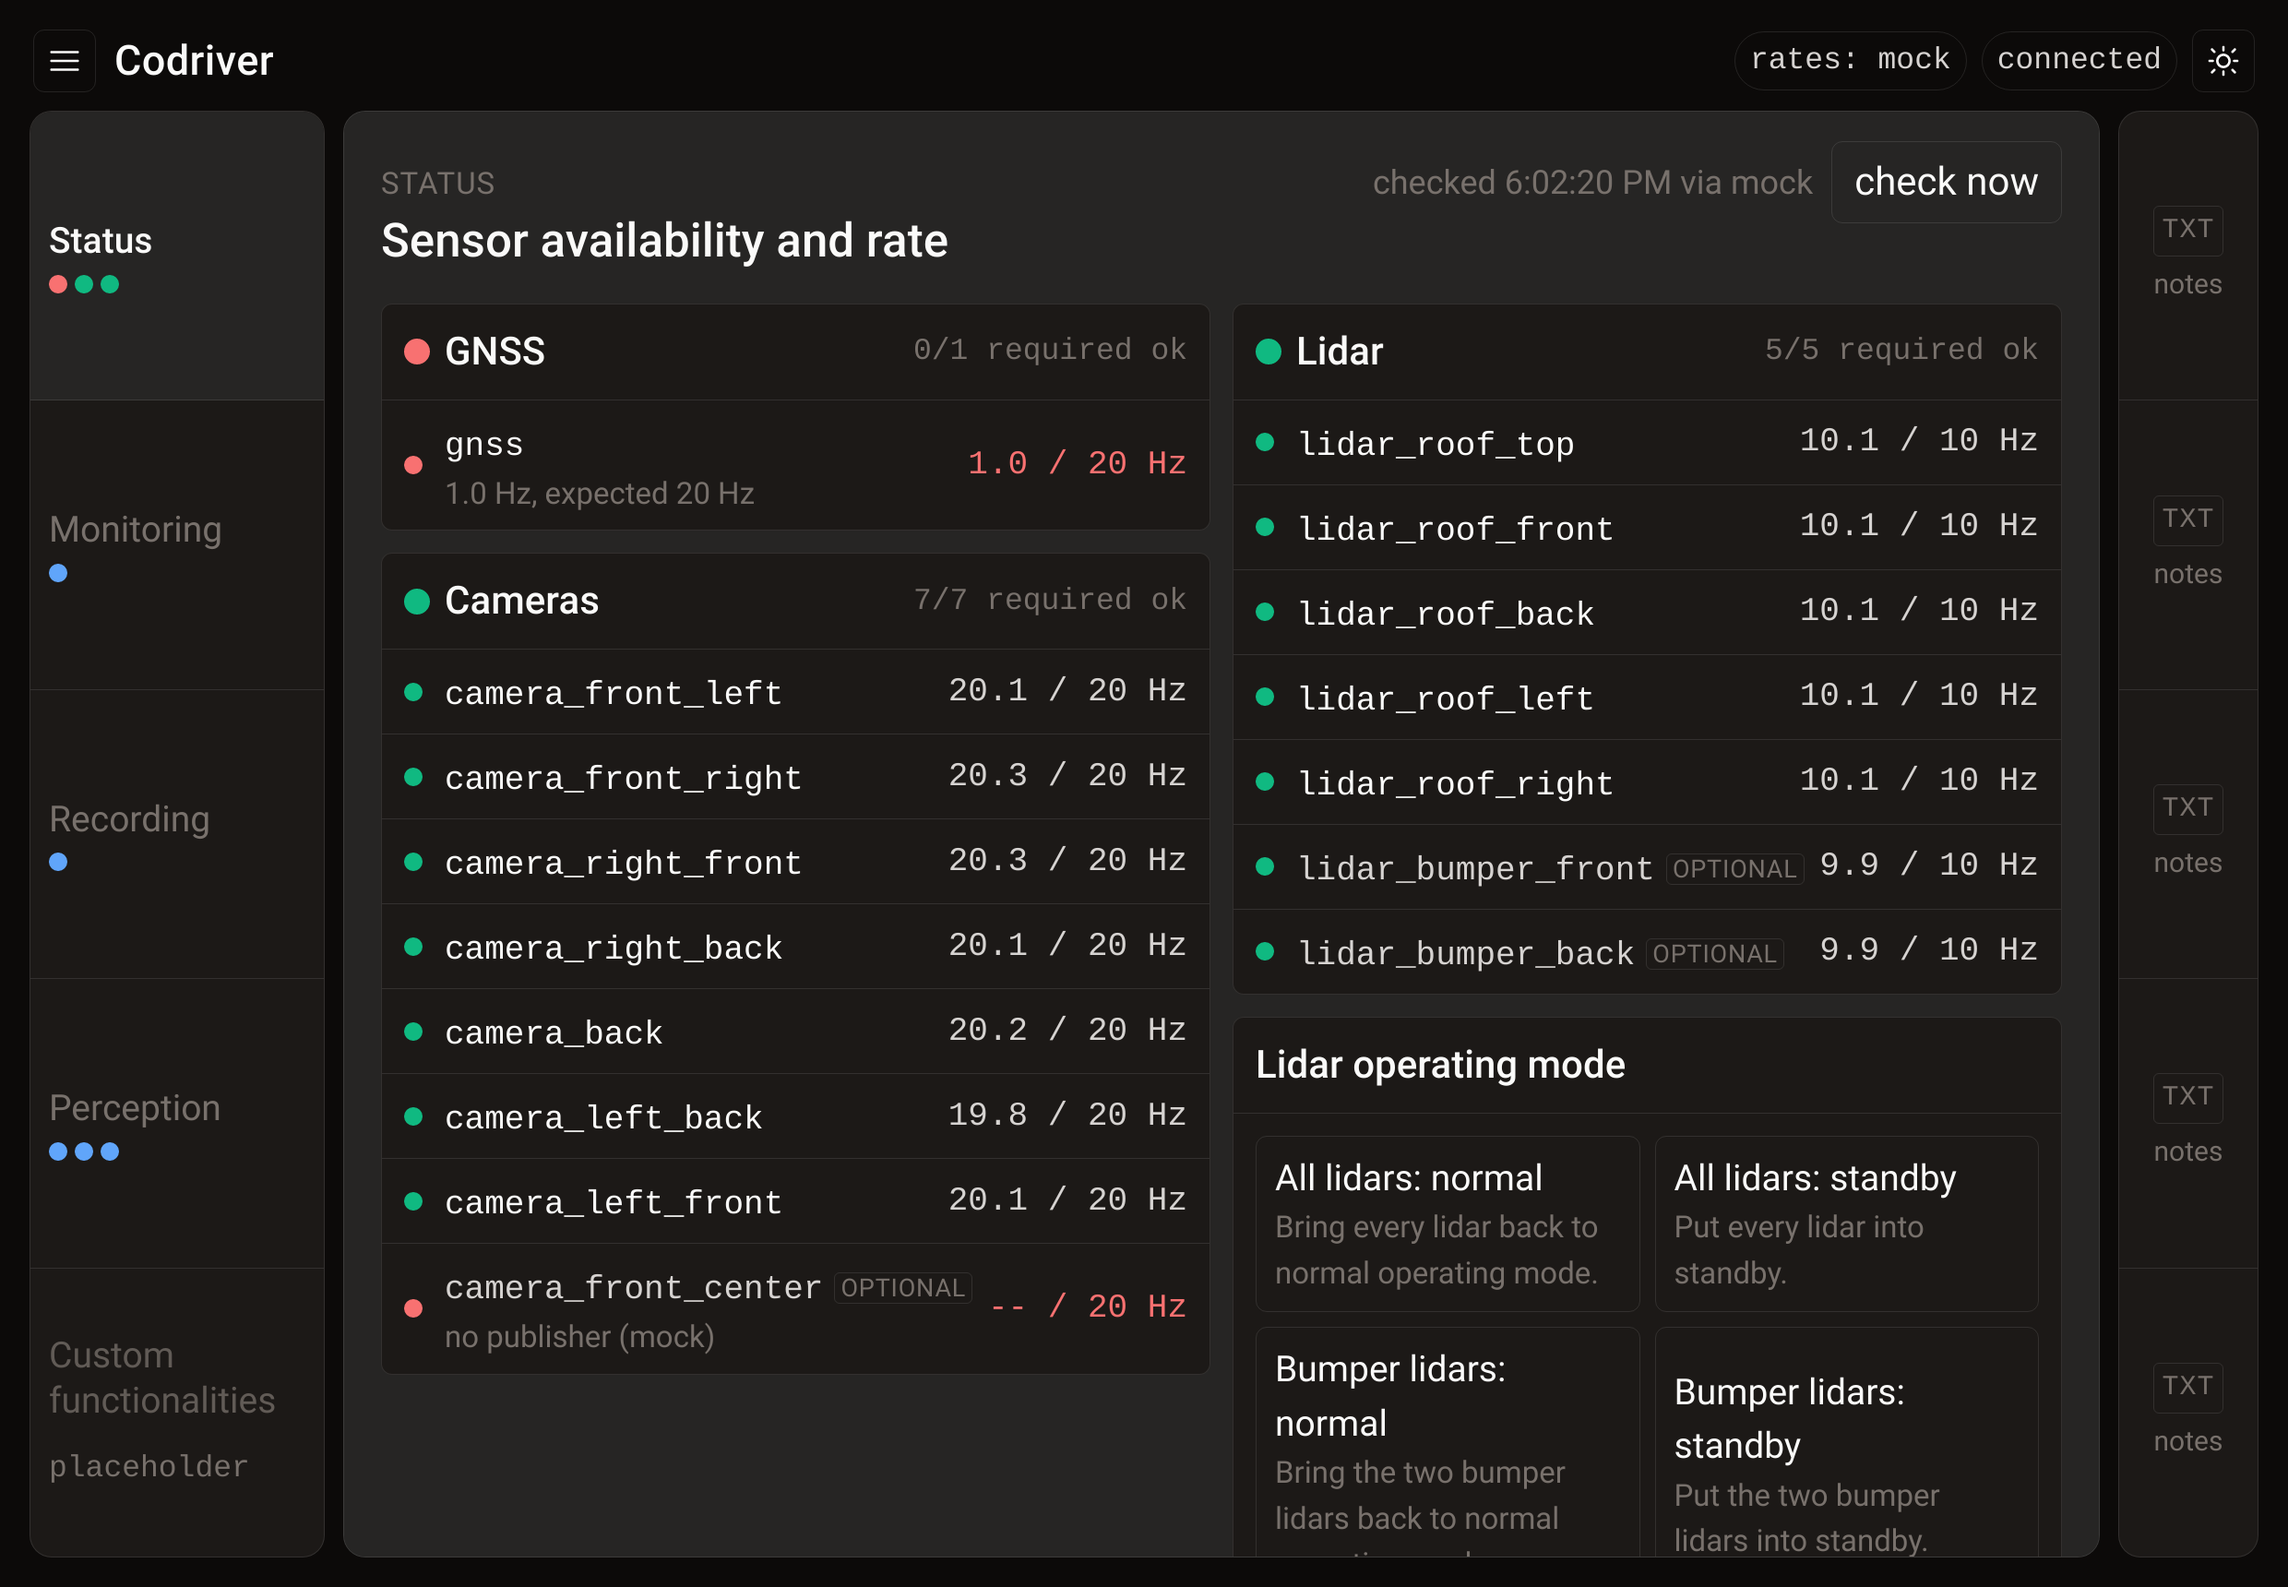
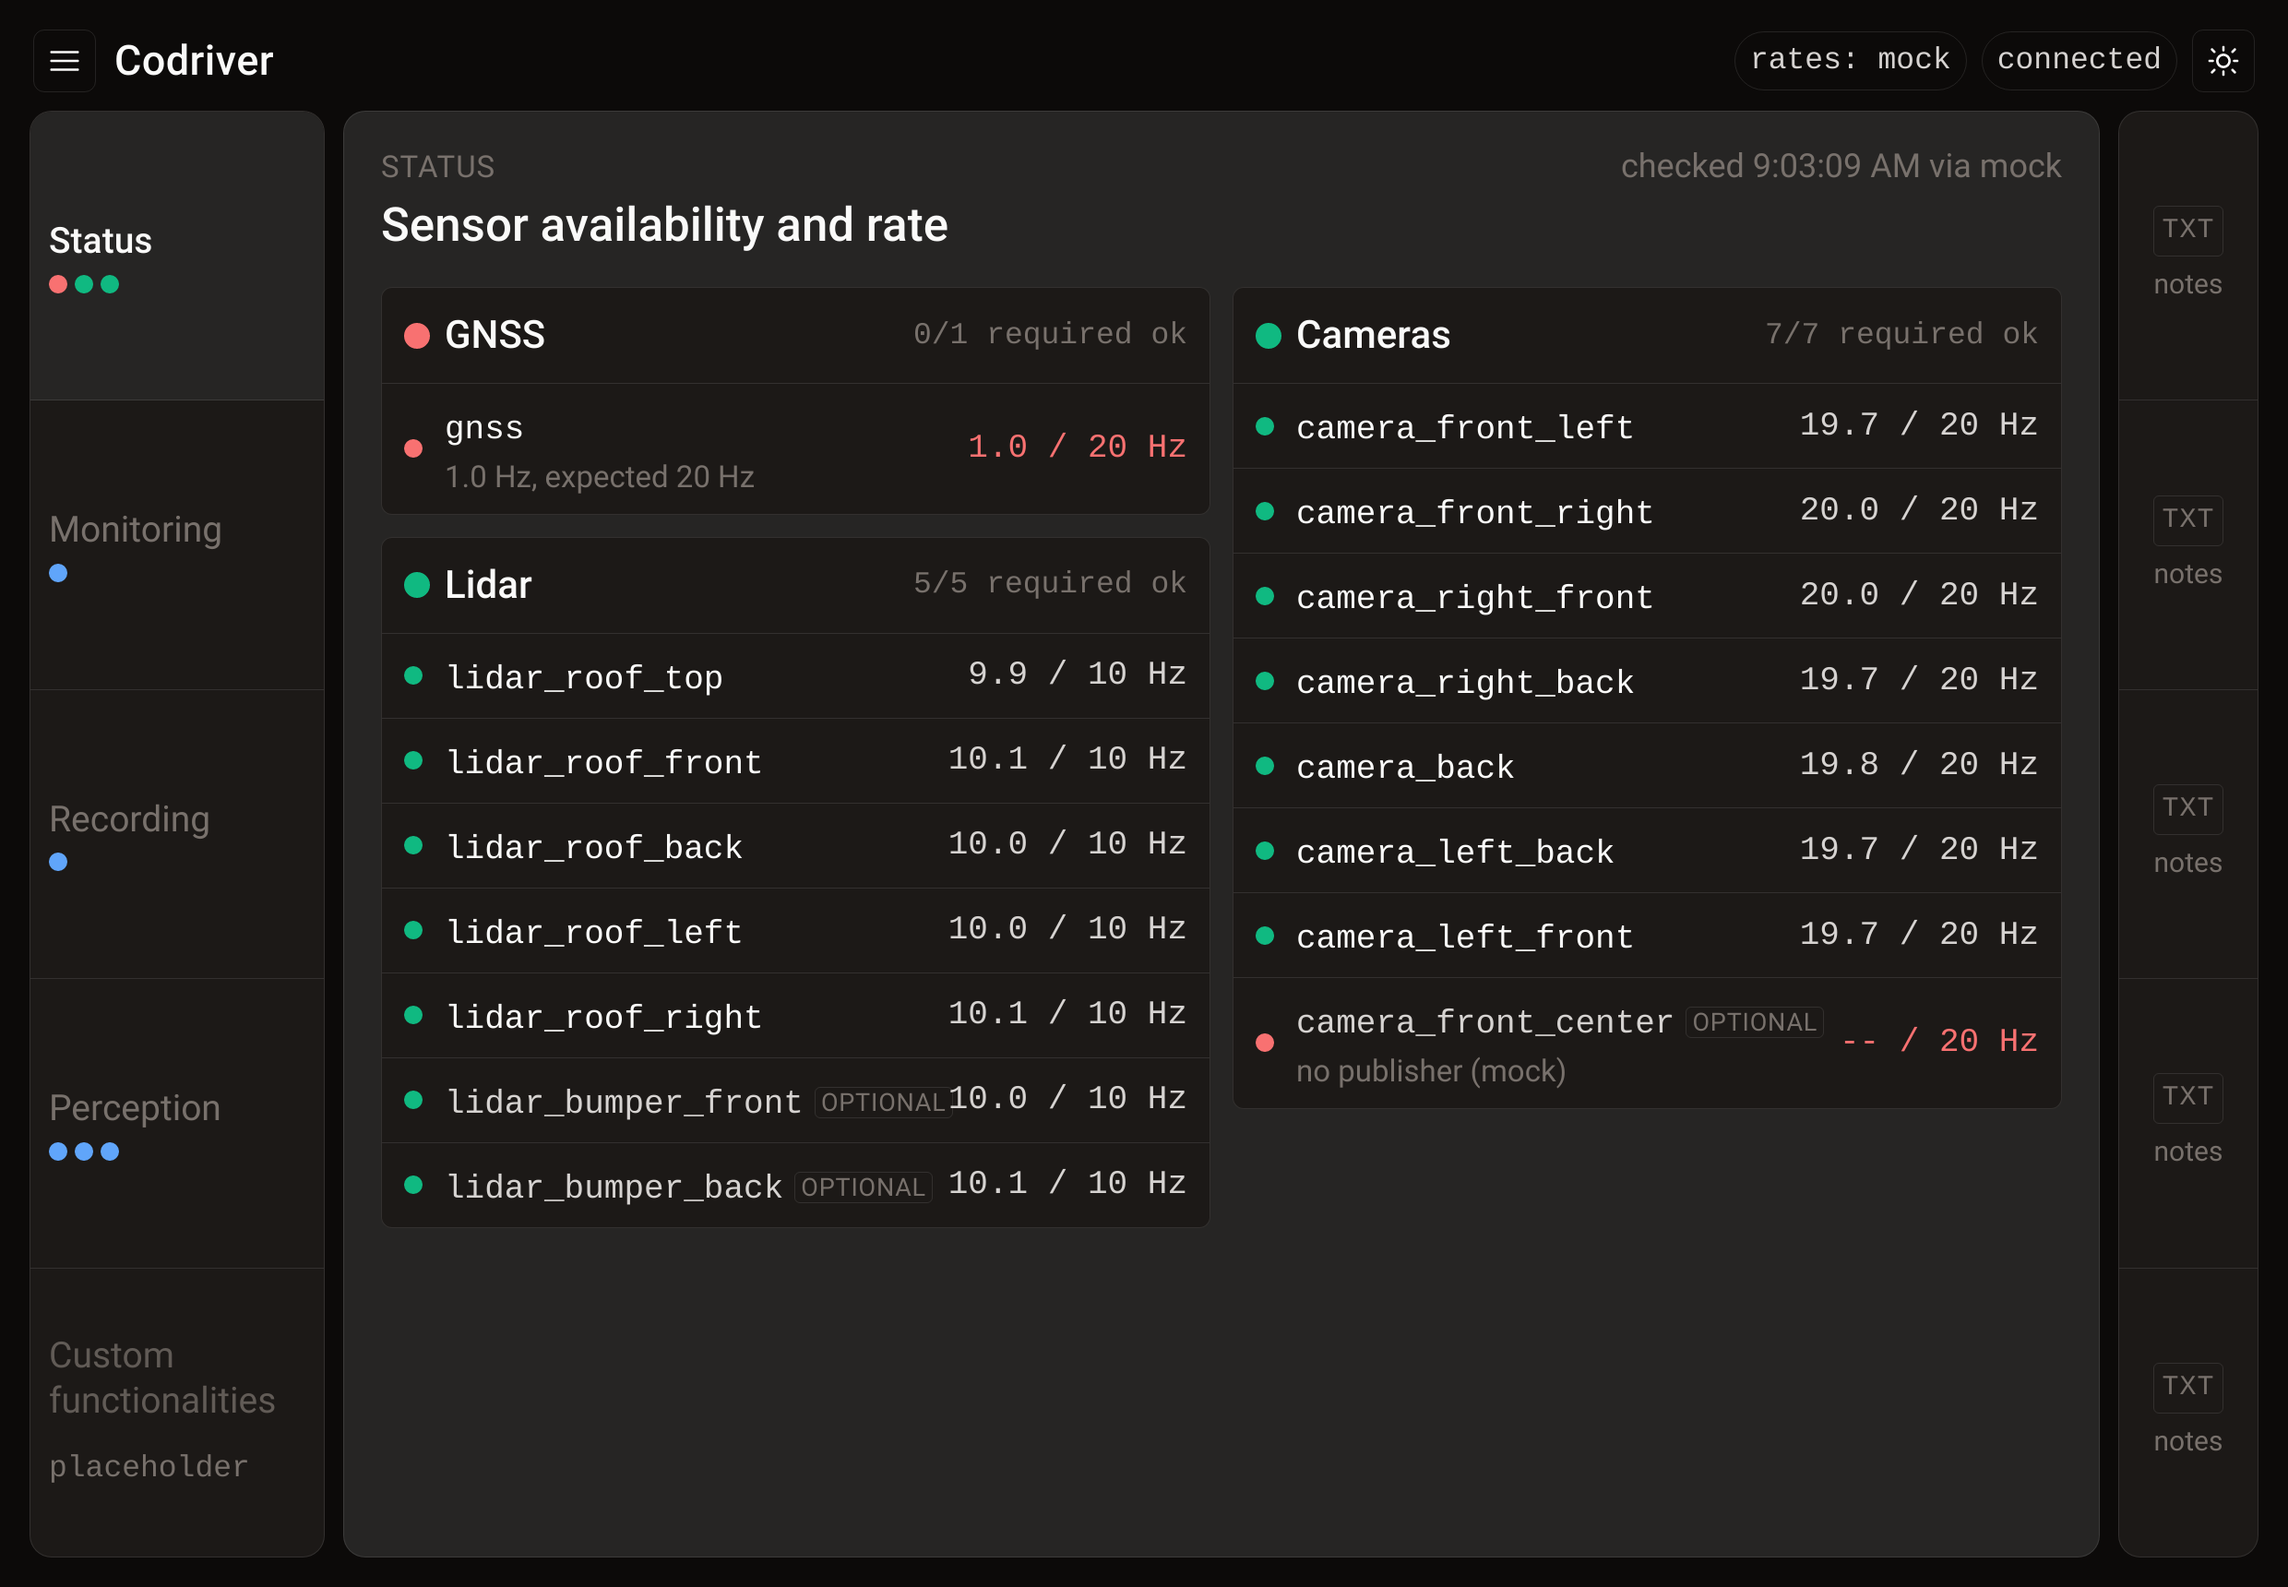
Status is read-only: GNSS and lidar left, cameras right, controls to Monitoring
- Status splits into two fixed columns: GNSS and the lidars on the left, the
  cameras on the right. A fixed grid rather than the previous multi-column
  flow, so which side a sensor lives on does not move when a block changes
  height. The portrait screen in the car still collapses to one column.
- The lidar operating-mode buttons moved to Monitoring, under the sensor
  blocks.
- The sweep button went with them. Status now has no interactive element at
  all, which is the point: reading the screen you check when something looks
  wrong can never itself be the thing that made the car busy. Monitoring keeps
  a sweep button, so nothing is lost.

Notes and README updated to match.

59 tests, ruff clean, mypy strict clean.

diff --git a/src/codriver/static/index.html b/src/codriver/static/index.html
@@ -162,17 +162,17 @@
   .title { font-size: 25.5px; font-weight: 500; }
   .hint { font-size: 18px; color: var(--text-muted); }
 
-  /* Status: boxes flow into as many columns as fit. One long column meant the
-     lidar block was below the fold on every screen, and the thing this tab
-     exists for is being readable at a glance without scrolling. The minimum
-     column width is what a sensor name needs, so the portrait screen in the
-     car collapses back to a single column on its own.
-
-     Multi-column rather than a grid: the blocks are wildly different heights,
-     and a grid would leave a column's worth of dead space under the one-row
-     GNSS box. Columns pack instead of aligning. */
-  .status-grid { columns: 2 360px; column-gap: 12px; }
-  .status-grid > * { break-inside: avoid; margin-bottom: 12px; }
+  /* Status: two fixed columns rather than a flow. GNSS and lidar on the left,
+     cameras on the right, because which side a sensor lives on should not move
+     when a block changes height. One long column meant the lidar block was
+     below the fold on every screen, and being readable at a glance is the
+     whole job of this tab. The minimum column width is what a sensor name
+     needs, so the portrait screen in the car collapses to one column. */
+  .status-grid {
+    display: grid; grid-template-columns: repeat(auto-fit, minmax(360px, 1fr));
+    gap: 12px; align-items: start;
+  }
+  .status-col { display: flex; flex-direction: column; gap: 12px; min-width: 0; }
   /* Past ten sensors a block splits its own rows into two columns rather than
      running off the bottom of the screen. */
   .rows.two-col { display: grid; grid-template-columns: 1fr 1fr; }
@@ -643,11 +643,19 @@ function commandsBlock() {
     </section>`;
 }
 
+// Status is read-only. Nothing on it starts, stops or triggers anything: it is
+// the screen you look at to find out whether something is wrong, and every
+// control that used to live here is on Monitoring now. That includes the sweep
+// button, so this tab cannot be the thing that made the car busy.
 function renderStatus() {
   const sensors = ui.data.sensors;
   const checked = sensors.last_checked
     ? new Date(sensors.last_checked * 1000).toLocaleTimeString()
     : "never";
+  // Cameras are the long block, so they get a column to themselves; GNSS and
+  // lidar share the other one.
+  const cameras = sensors.blocks.filter((b) => b.kind === "camera");
+  const rest = sensors.blocks.filter((b) => b.kind !== "camera");
 
   return `
     <div class="stage-head">
@@ -655,17 +663,12 @@ function renderStatus() {
         <div class="kicker">Status</div>
         <div class="title">Sensor availability and rate</div>
       </div>
-      <div style="display:flex; align-items:center; gap:10px;">
-        <span class="hint">checked ${esc(checked)} via ${esc(sensors.backend)}</span>
-        <button data-action="refresh" ${sensors.sweeping ? "disabled" : ""}>
-          ${sensors.sweeping ? "checking..." : "check now"}
-        </button>
-      </div>
+      <span class="hint">checked ${esc(checked)} via ${esc(sensors.backend)}${sensors.sweeping ? " - checking now" : ""}</span>
     </div>
     ${sensors.error ? `<div class="cmd-out fail">${esc(sensors.error)}</div>` : ""}
     <div class="status-grid">
-      ${sensors.blocks.map(blockHtml).join("")}
-      ${commandsBlock()}
+      <div class="status-col">${rest.map(blockHtml).join("")}</div>
+      <div class="status-col">${cameras.map(blockHtml).join("")}</div>
     </div>`;
 }
 
@@ -701,7 +704,7 @@ function renderMonitoring() {
         <span class="tally">${block.ok_count}/${block.required_count} required ok</span>
       </div>
       <div class="rows">${block.sensors.map(monitorRow).join("")}</div>
-    </section>`).join("");
+    </section>`).join("") + commandsBlock();
 
   const source = settings.viz === "foxglove" ? "Foxglove" : "RViz";
   // RViz still shares an exclusive group with the recorder on the backend, so

diff --git a/README.md b/README.md
@@ -59,13 +59,19 @@ language work will need.
 
 ### Status
 
-The GNSS, the eight cameras, the seven lidars, and the lidar operating-mode
-scripts, flowing into as many columns as the window fits. GNSS goes first
-because it is the one that comes up wrong. Green means the topic is being
+GNSS and the seven lidars on the left, the eight cameras on the right. GNSS
+leads because it is the one that comes up wrong. Green means the topic is being
 published at the rate it should be. Red means it is absent, silent, or off rate.
 Three sensors are listed but marked optional, and their failing does not turn
 their box red: the front-centre fisheye, which is never recorded, and the two
 bumper lidars.
+
+**Status has no controls at all.** Not the operating-mode buttons, not even the
+sweep button — they are all on Monitoring. This is the screen you read, not the
+one you act on, which means glancing at it can never be the thing that made the
+car busy. Two fixed columns rather than a flow, so which side a sensor lives on
+does not move when a block changes height; the portrait screen in the car
+collapses them back to one.
 
 A block longer than ten sensors splits into two columns of its own rather than
 running off the bottom of the screen.
@@ -101,6 +107,9 @@ Those three are **disabled on purpose**. The panel can read a sensor's rate, but
 it has no per-sensor driver control yet and nothing to render a single topic
 into. The row is here so the layout is settled before the wiring exists, and the
 buttons say so on hover rather than looking live and doing nothing.
+
+The lidar operating-mode buttons live here too, under the sensor blocks, along
+with the sweep button. Everything that does something is on this tab.
 
 The lower half is where RViz or Foxglove will be embedded. Until then the
 visualiser opens in its own window, started from the button above the pane.
@@ -295,10 +304,11 @@ it. `ruff` and `mypy --strict` are clean.
 Done:
 
 - [x] three-column shell, five vertical tabs, right rail split to match
-- [x] status tab: cameras, lidar, GNSS, operating-mode command buttons, laid
-      out in columns so nothing is below the fold
-- [x] monitoring tab: per-sensor rows with start / stop / visualise, and the
-      pane the visualiser will be embedded into
+- [x] status tab: read-only, GNSS and lidar left, cameras right, nothing
+      below the fold and no controls at all
+- [x] monitoring tab: per-sensor rows with start / stop / visualise, the lidar
+      operating-mode buttons, the sweep button, and the pane the visualiser
+      will be embedded into
 - [x] recording on its own tab, still mutually exclusive with the visualiser,
       stop is a real Ctrl-C
 - [x] per-sensor recording switches, group switches, topics passed to the script
@@ -333,8 +343,9 @@ codebases that drive it through the same commands a human can click.
 - [ ] embedded visualisation — evaluate Foxglove (streaming to a bridge, then
       subscribing and decoding) against RViz (direct subscription, no
       intermediate hop) and find out where the latency actually comes from
-- [ ] make **Status** strictly non-interactive: move the operating-mode buttons
-      to Monitoring and put an error terminal along the bottom
+- [x] make **Status** strictly non-interactive: the operating-mode and sweep
+      buttons moved to Monitoring
+- [ ] put an error terminal along the bottom of Status
 - [ ] a bigger, red, unmistakable record button
 - [ ] a legend for what the colours mean
 - [ ] a terminal view

diff --git a/instructions/status.md b/instructions/status.md
@@ -3,11 +3,14 @@
 Check this tab first, especially after a computer restart: the GNSS comes up at
 1 Hz and stays there until somebody sets it.
 
-Green means the topic is publishing at its expected rate, red means it is
-absent, silent, or off rate. The fisheye and the two bumper lidars show their
-own red light but never fail their box.
+GNSS and the lidars are on the left, the cameras on the right. Green means the
+topic is publishing at its expected rate, red means it is absent, silent, or off
+rate. The fisheye and the two bumper lidars show their own red light but never
+fail their box.
 
-If a lidar is dark, try the operating-mode buttons at the bottom before
-assuming hardware.
+Nothing on this tab does anything. There is no button to press here on purpose:
+this is the screen you read, not the one you act on. If a lidar is dark, go to
+Monitoring for the operating-mode buttons before assuming hardware, and use the
+sweep button there to re-check.
 
 TODO: paste in the GNSS reset procedure from the car.

diff --git a/instructions/monitoring.md b/instructions/monitoring.md
@@ -13,6 +13,9 @@ visualiser opens in its own window; the start button below the heading is the
 same RViz process the recorder competes with, so it will not start while a
 recording is running.
 
-Pick which source you want under the burger menu, in Display.
+The lidar operating-mode buttons live here too, under the sensor blocks.
+They used to be on Status; Status has no controls at all now.
+
+Pick which visualiser you want under the burger menu, in Display.
 
 TODO: wire the per-sensor buttons once the car exposes per-sensor launch files.
